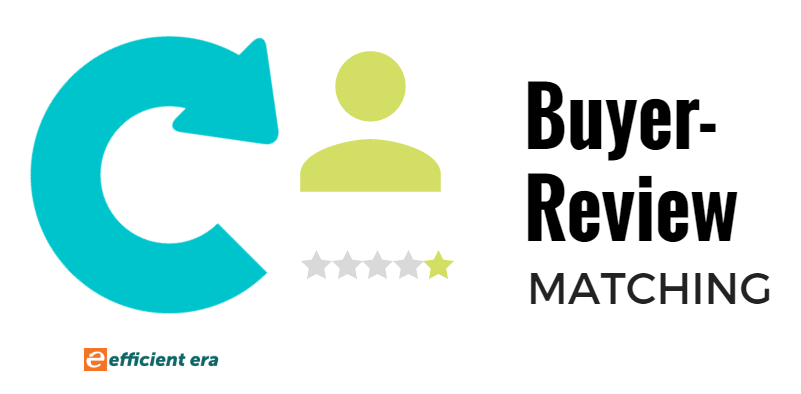
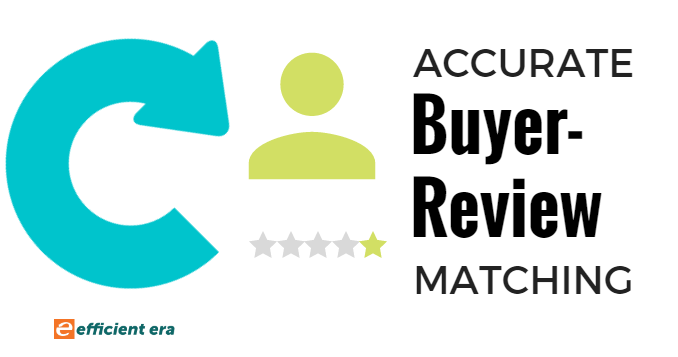
Buyer Review Matching - added the word "Accurately"

diff --git a/content/pages/feedback.html b/content/pages/feedback.html
@@ -12,7 +12,7 @@
     </p>
     <p>Reviews are a critical part of successful Amazon selling.
         Efficient Era gives you the tools to effectively process and respond to positive and negative reviews alike.
-        Two key features of our review tool are the ability to get notifications and the ability to match reviews to orders to buyers.</p>
+        Two key features of our review tool are the ability to get notifications and the ability to precisely and accurately match reviews to orders to buyers.</p>
 
     </p>
     <div class="page-header">
